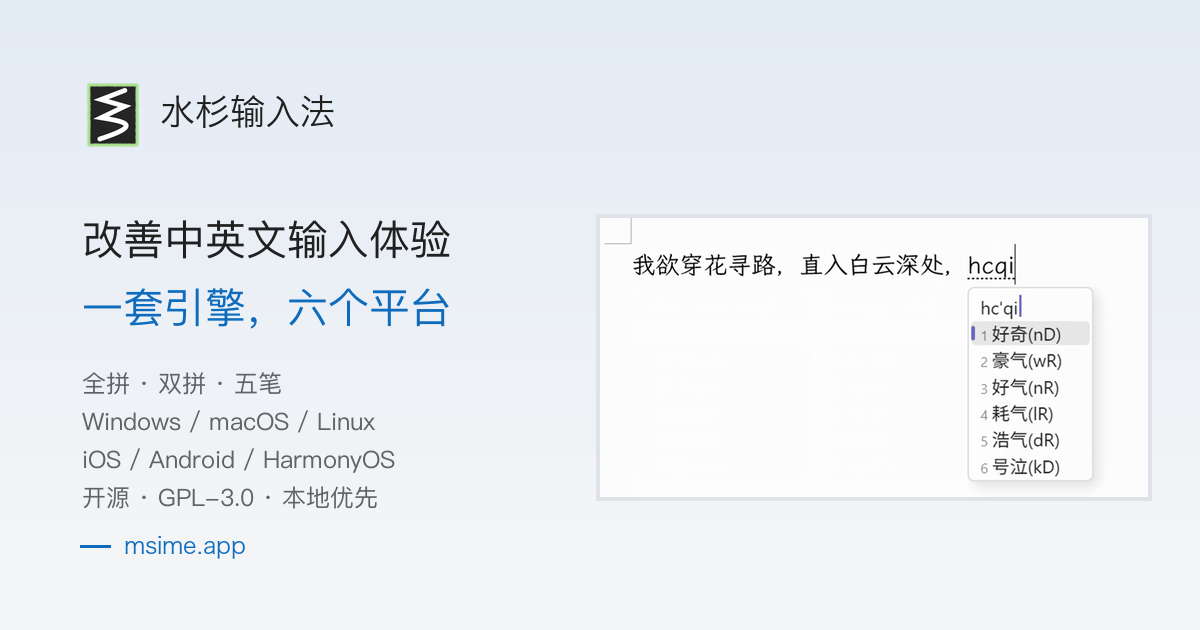
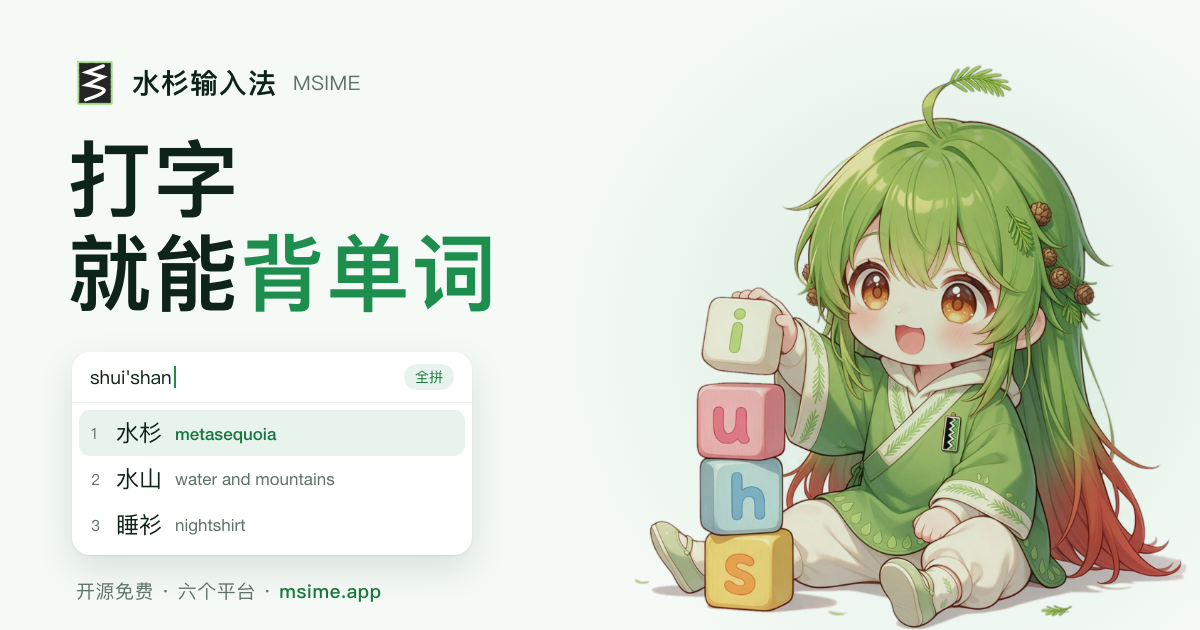
feat(site): 重做分享卡片，主打「打字就能背单词」 (#783)
旧的 og-cover 只列平台和方案名，配一张带辅助码的候选窗截图，看不出水杉最被传播的卖点。新卡片用 B 站爆款视频里的说法「打字就能背单词」作标题，配一张按官网首页候选窗样式重画的卡片（shui'shan → 水杉 metasequoia，候选和译文与首页 hero 的已核对数据一致），右侧是水杉娘「拼音积木」，积木正好拼出 s-h-u-i。

卡片源文件和渲染脚本放在 scripts/og-cover/，以后改文案直接改 HTML 再跑 render.sh。headless Chrome 在 macOS 上写完截图后常卡在退出阶段并留下子进程，脚本不等它退出，截图写完就按本次临时 profile 收掉所有相关进程。

所有页面的 og:image:alt 同步改成新卡片的描述。

diff --git a/scripts/og-cover/og-cover.html b/scripts/og-cover/og-cover.html
@@ -1,0 +1,68 @@
+<!doctype html>
+<!-- Source of public/og-cover.png (1200x630). Render with scripts/og-cover/render.sh; the candidates and glosses are the same verified set as the home hero (src/home/hero-cycle.ts). -->
+<html lang="zh-CN">
+<head>
+<meta charset="utf-8">
+<style>
+  :root {
+    --bg: #F5FAF6;
+    --panel: #FFFFFF;
+    --ink: #0F2419;
+    --muted: #5E7266;
+    --accent: #1E8E4E;
+    --accent-soft: rgba(30, 142, 78, .1);
+    --accent-ink: #17783F;
+  }
+  html, body { margin: 0; width: 1200px; height: 630px; overflow: hidden; background-color: var(--bg); color: var(--ink); }
+  body { font-family: "PingFang SC", "Hiragino Sans GB", "Noto Sans CJK SC", "Microsoft YaHei", sans-serif; position: relative; }
+
+  /* Soft light pool behind the mascot so she does not float on a flat fill. */
+  .glow { position: absolute; right: -120px; top: -40px; width: 760px; height: 760px; border-radius: 50%; background: radial-gradient(circle, rgba(30, 142, 78, .13) 0%, rgba(30, 142, 78, .05) 45%, rgba(30, 142, 78, 0) 70%); }
+
+  /* The art is drawn on white; multiply drops the white into the page colour. */
+  .mascot { position: absolute; right: -24px; bottom: -36px; width: 640px; height: 640px; mix-blend-mode: multiply; }
+
+  .brand { position: absolute; left: 72px; top: 60px; display: flex; align-items: center; gap: 14px; }
+  .brand img { width: 46px; height: 46px; }
+  .brand span { font-size: 28px; font-weight: 600; letter-spacing: 1px; }
+  .brand small { font-size: 20px; color: var(--muted); font-weight: 400; margin-left: 2px; letter-spacing: .5px; }
+
+  h1 { position: absolute; left: 68px; top: 132px; margin: 0; font-size: 84px; line-height: 1.12; font-weight: 700; letter-spacing: 2px; }
+  h1 em { font-style: normal; color: var(--accent); }
+
+  .card { position: absolute; left: 72px; top: 352px; width: 400px; background: var(--panel); border-radius: 18px; box-shadow: 0 1px 2px rgba(15, 36, 25, .06), 0 14px 36px rgba(15, 36, 25, .12); overflow: hidden; }
+  .comp { display: flex; align-items: center; height: 50px; padding: 0 18px; border-bottom: 1px solid rgba(15, 36, 25, .07); font-size: 19px; }
+  .caret { display: inline-block; width: 2px; height: 22px; background: var(--accent); margin-left: 2px; vertical-align: -4px; }
+  .pill { margin-left: auto; padding: 3px 11px; border-radius: 999px; background: var(--accent-soft); color: var(--accent-ink); font-size: 14px; }
+  ol { list-style: none; margin: 0; padding: 7px; }
+  li { display: flex; align-items: center; gap: 13px; height: 46px; padding: 0 12px; border-radius: 11px; }
+  li:first-child { background: var(--accent-soft); }
+  li b { width: 12px; font-weight: 400; font-size: 15px; color: var(--muted); }
+  li span { font-size: 23px; }
+  li i { font-style: normal; font-size: 17px; color: var(--muted); font-family: "SF Pro Text", "Segoe UI", "Helvetica Neue", sans-serif; }
+  li:first-child i { color: var(--accent-ink); font-weight: 500; }
+
+  .foot { position: absolute; left: 76px; top: 578px; font-size: 19px; color: var(--muted); letter-spacing: .5px; }
+  .foot b { font-weight: 500; color: var(--accent-ink); }
+</style>
+</head>
+<body>
+  <div class="glow"></div>
+  <img class="mascot" src="mascot.png" alt="">
+
+  <div class="brand"><img src="../../public/msime.svg" alt=""><span>水杉输入法</span><small>MSIME</small></div>
+
+  <h1>打字<br>就能<em>背单词</em></h1>
+
+  <div class="card">
+    <div class="comp"><span>shui'shan<span class="caret"></span></span><span class="pill">全拼</span></div>
+    <ol>
+      <li><b>1</b><span>水杉</span><i>metasequoia</i></li>
+      <li><b>2</b><span>水山</span><i>water and mountains</i></li>
+      <li><b>3</b><span>睡衫</span><i>nightshirt</i></li>
+    </ol>
+  </div>
+
+  <div class="foot">开源免费 · 六个平台 · <b>msime.app</b></div>
+</body>
+</html>

diff --git a/plugins/index.html b/plugins/index.html
@@ -21,7 +21,7 @@
   <meta property="og:image" content="https://msime.app/og-cover.png" />
   <meta property="og:image:width" content="1200" />
   <meta property="og:image:height" content="630" />
-  <meta property="og:image:alt" content="水杉输入法：改善中英文输入体验，一套引擎，六个平台" />
+  <meta property="og:image:alt" content="水杉输入法：打字就能背单词，候选旁直接显示译文" />
   <meta name="twitter:card" content="summary_large_image" />
   <meta name="twitter:title" content="插件｜水杉输入法" />
   <meta name="twitter:description" content="浏览水杉输入法的官方插件和用户发布的插件：音效包、音乐包、指令表和特效包，查看版本、许可、下载量和评分。官方插件可以直接下载 .zip 导入；社区插件登录后可以收藏、评分，在水杉输入法的「社区」页下载安装。" />

diff --git a/dictionaries/index.html b/dictionaries/index.html
@@ -21,7 +21,7 @@
   <meta property="og:image" content="https://msime.app/og-cover.png" />
   <meta property="og:image:width" content="1200" />
   <meta property="og:image:height" content="630" />
-  <meta property="og:image:alt" content="水杉输入法：改善中英文输入体验，一套引擎，六个平台" />
+  <meta property="og:image:alt" content="水杉输入法：打字就能背单词，候选旁直接显示译文" />
   <meta name="twitter:card" content="summary_large_image" />
   <meta name="twitter:title" content="词库与回复模板｜水杉输入法" />
   <meta name="twitter:description" content="浏览水杉输入法的专业词库，以及用户分享的词库和回复模板，按名称搜索，查看词条示例、收藏数和评分。专业词库可以直接下载导入；社区内容登录后可以收藏、评分，在水杉输入法的「社区」页使用。" />

diff --git a/skins/index.html b/skins/index.html
@@ -21,7 +21,7 @@
   <meta property="og:image" content="https://msime.app/og-cover.png" />
   <meta property="og:image:width" content="1200" />
   <meta property="og:image:height" content="630" />
-  <meta property="og:image:alt" content="水杉输入法：改善中英文输入体验，一套引擎，六个平台" />
+  <meta property="og:image:alt" content="水杉输入法：打字就能背单词，候选旁直接显示译文" />
   <meta name="twitter:card" content="summary_large_image" />
   <meta name="twitter:title" content="社区皮肤｜水杉输入法" />
   <meta name="twitter:description" content="浏览水杉输入法用户公开发布的键盘皮肤和候选窗皮肤，按名称搜索，查看配色预览、下载量和评分。无需登录即可下载电脑候选窗皮肤包；键盘皮肤在水杉输入法中下载应用。" />

diff --git a/engine/index.html b/engine/index.html
@@ -21,7 +21,7 @@
   <meta property="og:image" content="https://msime.app/og-cover.png" />
   <meta property="og:image:width" content="1200" />
   <meta property="og:image:height" content="630" />
-  <meta property="og:image:alt" content="水杉输入法：改善中英文输入体验，一套引擎，六个平台" />
+  <meta property="og:image:alt" content="水杉输入法：打字就能背单词，候选旁直接显示译文" />
   <meta name="twitter:card" content="summary_large_image" />
   <meta name="twitter:title" content="引擎库 | 水杉输入法" />
   <meta name="twitter:description" content="水杉输入法的输入引擎单独发布成库：Rust 用 crates.io 上的 msime-engine，C、C++、Swift、Kotlin、Go、Python 等用预编译的 C 库。十种输入方案、词格整句、拼写纠错与学习，代码 MPL-2.0" />

diff --git a/words/index.html b/words/index.html
@@ -21,7 +21,7 @@
   <meta property="og:image" content="https://msime.app/og-cover.png" />
   <meta property="og:image:width" content="1200" />
   <meta property="og:image:height" content="630" />
-  <meta property="og:image:alt" content="水杉输入法：改善中英文输入体验，一套引擎，六个平台" />
+  <meta property="og:image:alt" content="水杉输入法：打字就能背单词，候选旁直接显示译文" />
   <meta name="twitter:card" content="summary_large_image" />
   <meta name="twitter:title" content="提交词条｜水杉输入法" />
   <meta name="twitter:description" content="无需 GitHub 账号，为水杉输入法词库提交新词和拼音、英文单词或候选译文。词条经维护者审核后，随后续词库版本发布到所有平台。" />

diff --git a/gallery/index.html b/gallery/index.html
@@ -21,7 +21,7 @@
   <meta property="og:image" content="https://msime.app/og-cover.png" />
   <meta property="og:image:width" content="1200" />
   <meta property="og:image:height" content="630" />
-  <meta property="og:image:alt" content="水杉输入法：改善中英文输入体验，一套引擎，六个平台" />
+  <meta property="og:image:alt" content="水杉输入法：打字就能背单词，候选旁直接显示译文" />
   <meta name="twitter:card" content="summary_large_image" />
   <meta name="twitter:title" content="水杉娘画廊 Gallery｜水杉输入法" />
   <meta name="twitter:description" content="认识水杉娘，浏览姿势、表情、服装与场景插画，收藏春夏秋冬的不同模样。支持按分类和名称查找、点击查看大图。" />

diff --git a/model/index.html b/model/index.html
@@ -21,7 +21,7 @@
   <meta property="og:image" content="https://msime.app/og-cover.png" />
   <meta property="og:image:width" content="1200" />
   <meta property="og:image:height" content="630" />
-  <meta property="og:image:alt" content="水杉输入法：改善中英文输入体验，一套引擎，六个平台" />
+  <meta property="og:image:alt" content="水杉输入法：打字就能背单词，候选旁直接显示译文" />
   <meta name="twitter:card" content="summary_large_image" />
   <meta name="twitter:title" content="神经联想 | 水杉输入法" />
   <meta name="twitter:description" content="用 4.5 MB 起的字级语言模型在整句候选里挑出更通顺的读法：效果、代价、启用方法与开源库" />

diff --git a/features/index.html b/features/index.html
@@ -21,7 +21,7 @@
   <meta property="og:image" content="https://msime.app/og-cover.png" />
   <meta property="og:image:width" content="1200" />
   <meta property="og:image:height" content="630" />
-  <meta property="og:image:alt" content="水杉输入法：改善中英文输入体验，一套引擎，六个平台" />
+  <meta property="og:image:alt" content="水杉输入法：打字就能背单词，候选旁直接显示译文" />
   <meta name="twitter:card" content="summary_large_image" />
   <meta name="twitter:title" content="功能 | 水杉输入法" />
   <meta name="twitter:description" content="水杉输入法的候选窗、皮肤与词库：实际画面、可自定义的部分，以及随版本分发的词库。" />

diff --git a/index.html b/index.html
@@ -21,7 +21,7 @@
   <meta property="og:image" content="https://msime.app/og-cover.png" />
   <meta property="og:image:width" content="1200" />
   <meta property="og:image:height" content="630" />
-  <meta property="og:image:alt" content="水杉输入法：改善中英文输入体验，一套引擎，六个平台" />
+  <meta property="og:image:alt" content="水杉输入法：打字就能背单词，候选旁直接显示译文" />
   <meta name="twitter:card" content="summary_large_image" />
   <meta name="twitter:title" content="MSIME | 水杉输入法" />
   <meta name="twitter:description" content="开源中文输入法，面向 Windows、macOS、Linux、Android、iOS 与 HarmonyOS 开发，也能嵌入网页使用。" />

diff --git a/faq/index.html b/faq/index.html
@@ -21,7 +21,7 @@
   <meta property="og:image" content="https://msime.app/og-cover.png" />
   <meta property="og:image:width" content="1200" />
   <meta property="og:image:height" content="630" />
-  <meta property="og:image:alt" content="水杉输入法：改善中英文输入体验，一套引擎，六个平台" />
+  <meta property="og:image:alt" content="水杉输入法：打字就能背单词，候选旁直接显示译文" />
   <meta name="twitter:card" content="summary_large_image" />
   <meta name="twitter:title" content="常见问题 Q&A | 水杉输入法" />
   <meta name="twitter:description" content="水杉输入法常见问题：字体方框、安装启动、快捷键、候选与翻译排查。" />

diff --git a/terms/index.html b/terms/index.html
@@ -21,7 +21,7 @@
   <meta property="og:image" content="https://msime.app/og-cover.png" />
   <meta property="og:image:width" content="1200" />
   <meta property="og:image:height" content="630" />
-  <meta property="og:image:alt" content="水杉输入法：改善中英文输入体验，一套引擎，六个平台" />
+  <meta property="og:image:alt" content="水杉输入法：打字就能背单词，候选旁直接显示译文" />
   <meta name="twitter:card" content="summary_large_image" />
   <meta name="twitter:title" content="用户协议 | 水杉输入法" />
   <meta name="twitter:description" content="水杉输入法用户协议：账号、云同步、社区与官网等在线服务的使用规则" />
